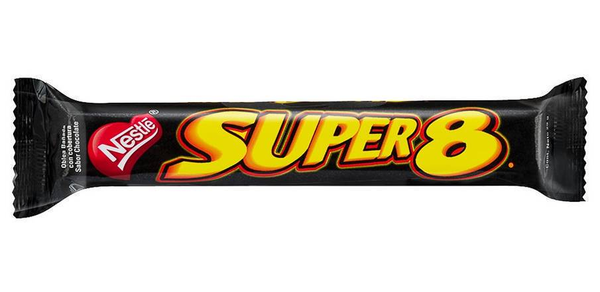
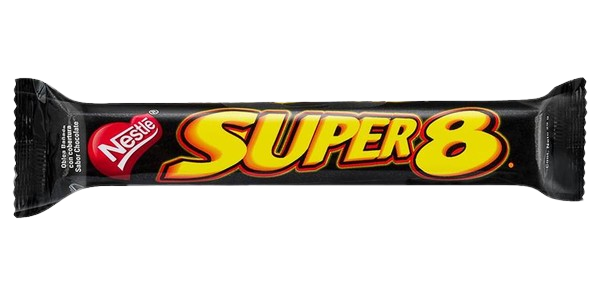
Arreglar dimensiones de imagenes de los productos

diff --git a/src/main/java/frontend/Producto.java b/src/main/java/frontend/Producto.java
@@ -11,11 +11,32 @@ public class Producto {
     private int x;
     private int y;
 
+    private int ancho;
+    private int alto;
+
     private Image imagen;
 
     public Producto(String sabor, String serie) {
         this.sabor = sabor;
         this.serie = serie;
+
+        if(sabor.equals("Super8")) {
+            this.ancho = 75;
+            this.alto = 45;
+        }
+        else if (sabor.equals("Snickers")) {
+            this.ancho = 75;
+            this.alto = 65;
+        }
+        else if(sabor.equals("Sprite")) {
+            this.ancho = 130;
+            this.alto = 80;
+        }
+        else {
+            this.ancho = 75;
+            this.alto = 75;
+        }
+
         cargarImagen();
     }
 
@@ -40,7 +61,7 @@ public class Producto {
             if (url != null) {
                 ImageIcon icon = new ImageIcon(url);
 
-                this.imagen = icon.getImage().getScaledInstance(45, 55, Image.SCALE_SMOOTH);
+                this.imagen = icon.getImage().getScaledInstance(ancho, alto, Image.SCALE_SMOOTH);
             } else {
                 System.out.print("Java no ha encontrado el archivo " + ruta);
             }
@@ -55,6 +76,10 @@ public class Producto {
 
     public void setY(int y) {
         this.y = y;
+    }
+
+    public int getAncho() {
+        return this.ancho;
     }
 
     public void paintComponent(Graphics g) {

diff --git a/src/main/java/frontend/PanelDeposito.java b/src/main/java/frontend/PanelDeposito.java
@@ -41,7 +41,7 @@ public class PanelDeposito extends JPanel {
 
         for (Producto p : productos) {
             p.setY(offsetY);
-            offsetY += 75;
+            offsetY += 100;
         }
     }
 
@@ -64,7 +64,7 @@ public class PanelDeposito extends JPanel {
         g.drawString(nombre, 5, 12);
 
         for (Producto p : productos) {
-            p.setX((ancho - 45) / 2);
+            p.setX((ancho - p.getAncho()) / 2);
 
             p.paintComponent(g);
         }

diff --git a/src/main/java/frontend/PanelComprador.java b/src/main/java/frontend/PanelComprador.java
@@ -175,11 +175,11 @@ public class PanelComprador extends JPanel {
             p.setY(prodInicialY);
             p.paintComponent(g);
 
-            prodInicialX += 55;
+            prodInicialX += 80;
 
-            if (prodInicialX > (x + 20 + 260 - 45)) {
+            if (prodInicialX > (x + 20 + 260 - 70)) {
                 prodInicialX = x + 30;
-                prodInicialY += 65;
+                prodInicialY += 85;
             }
         }
 
